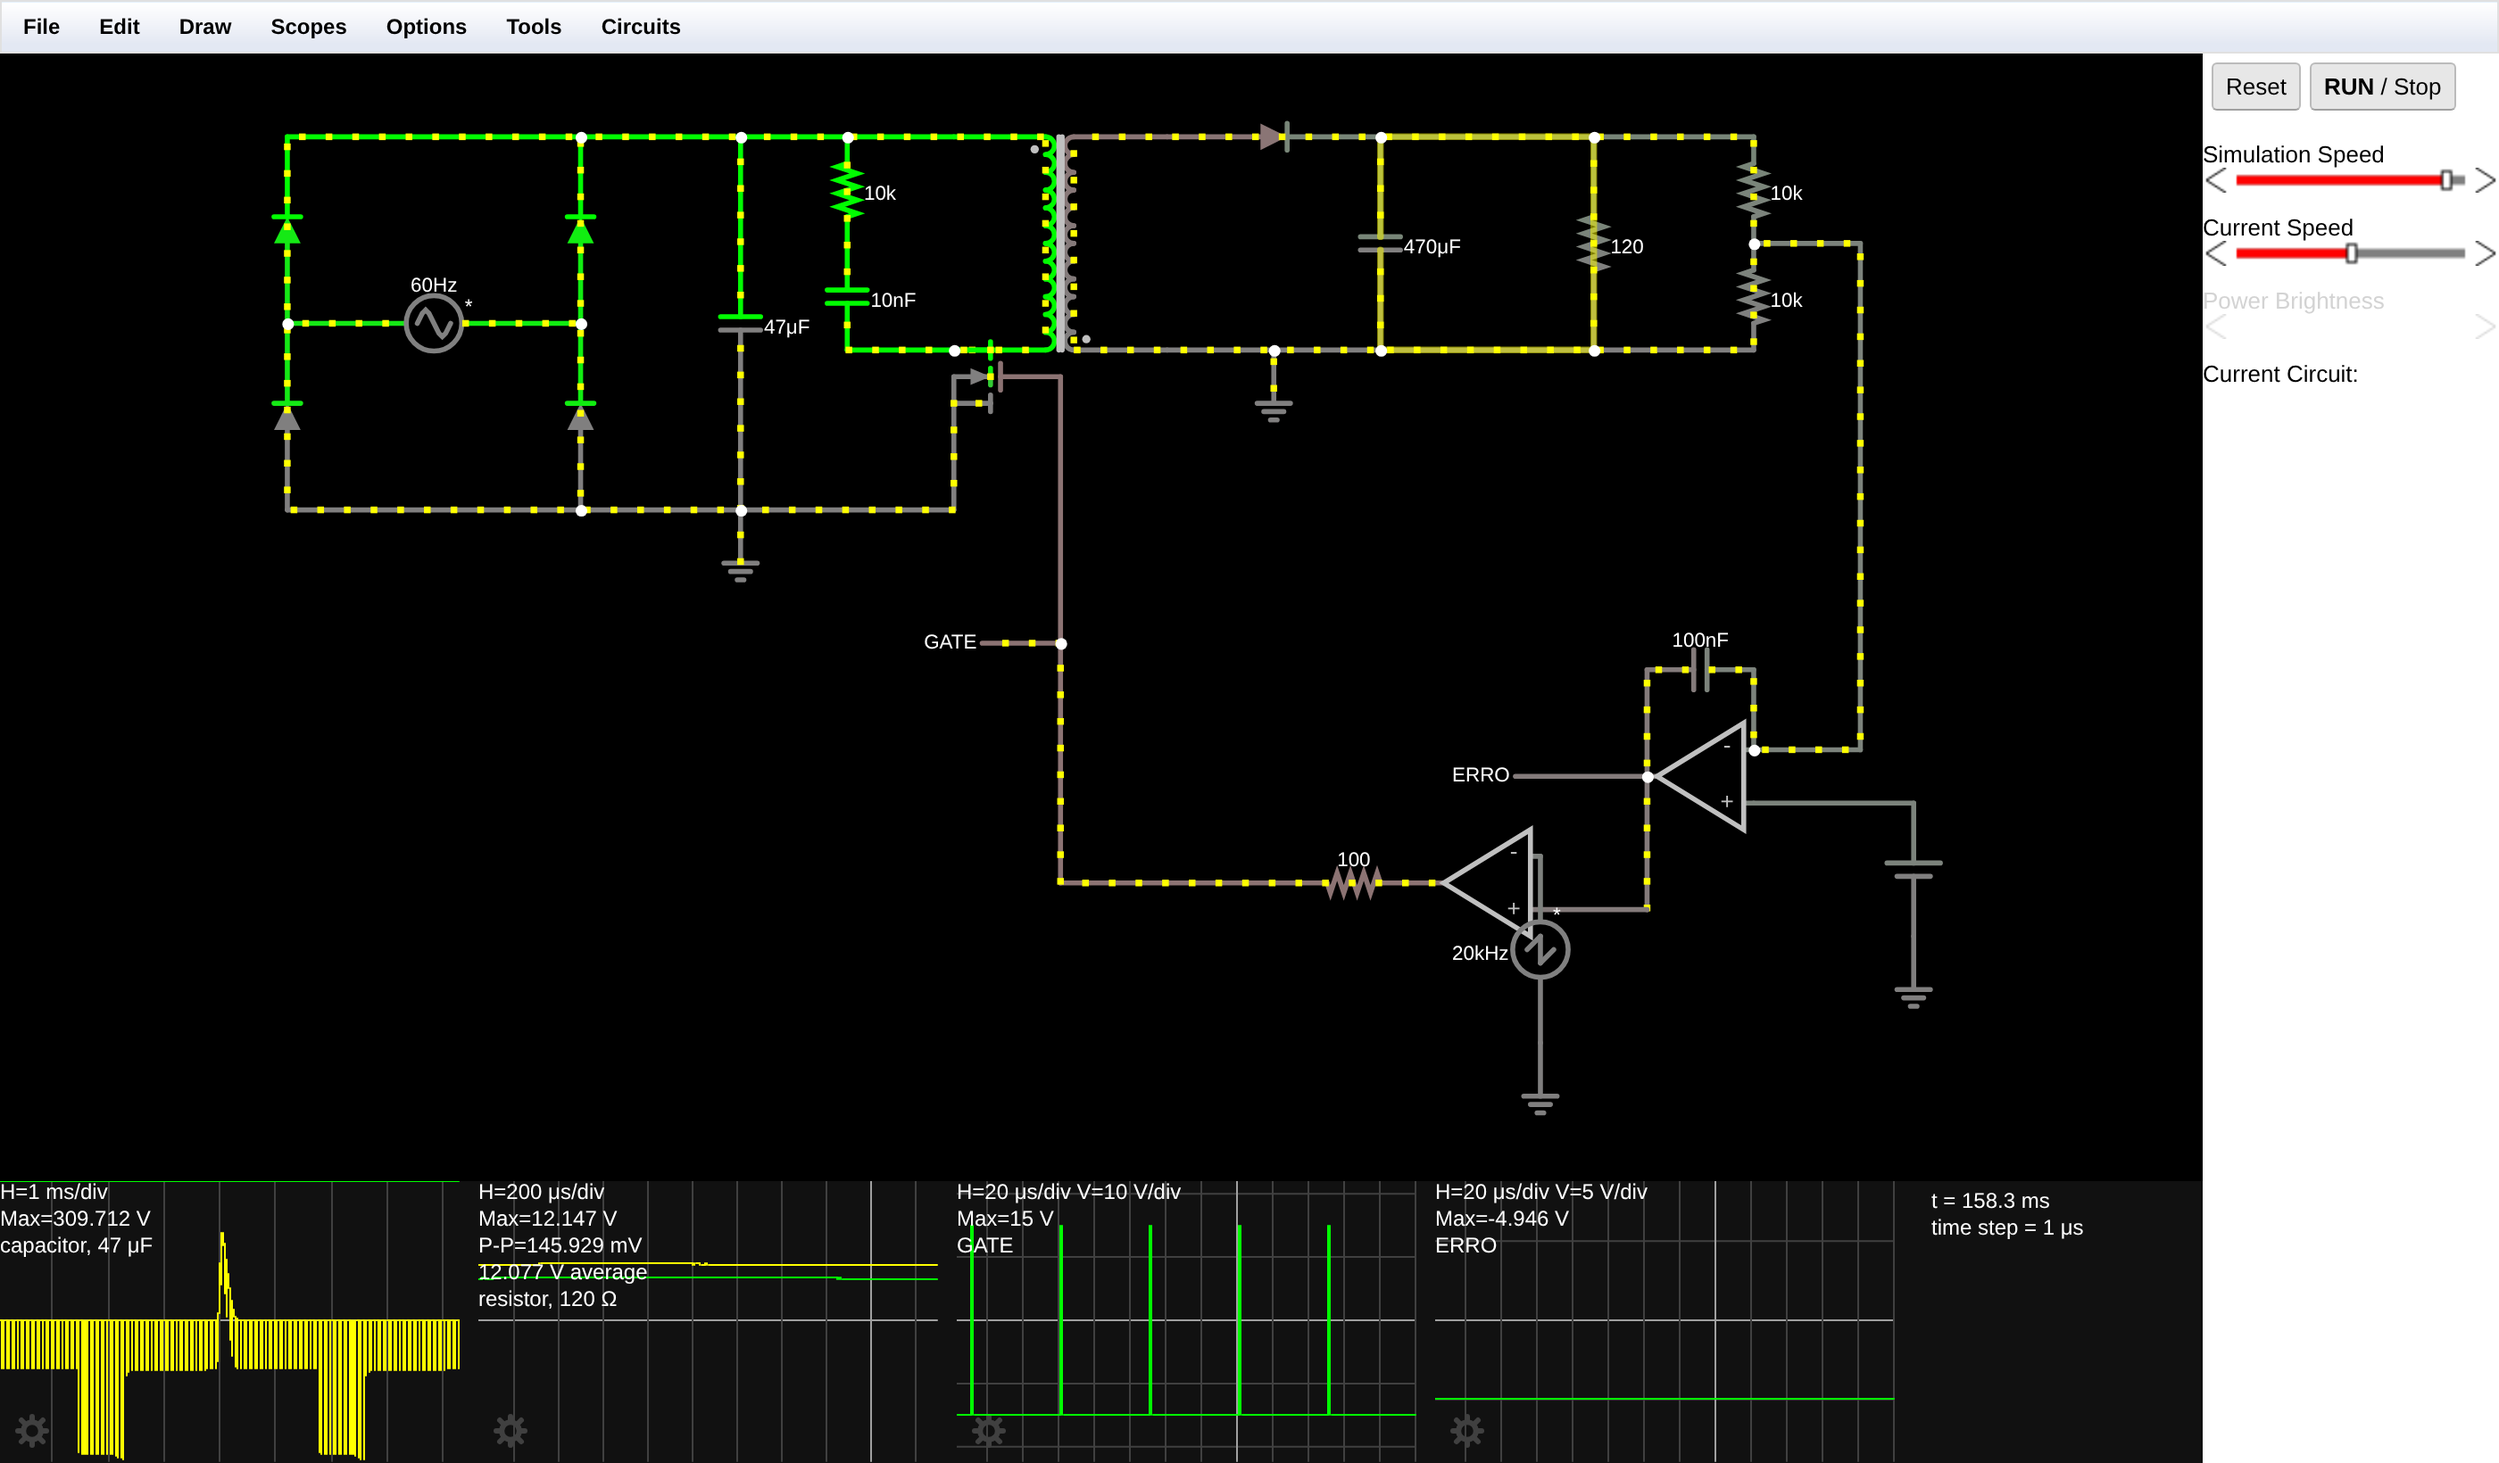
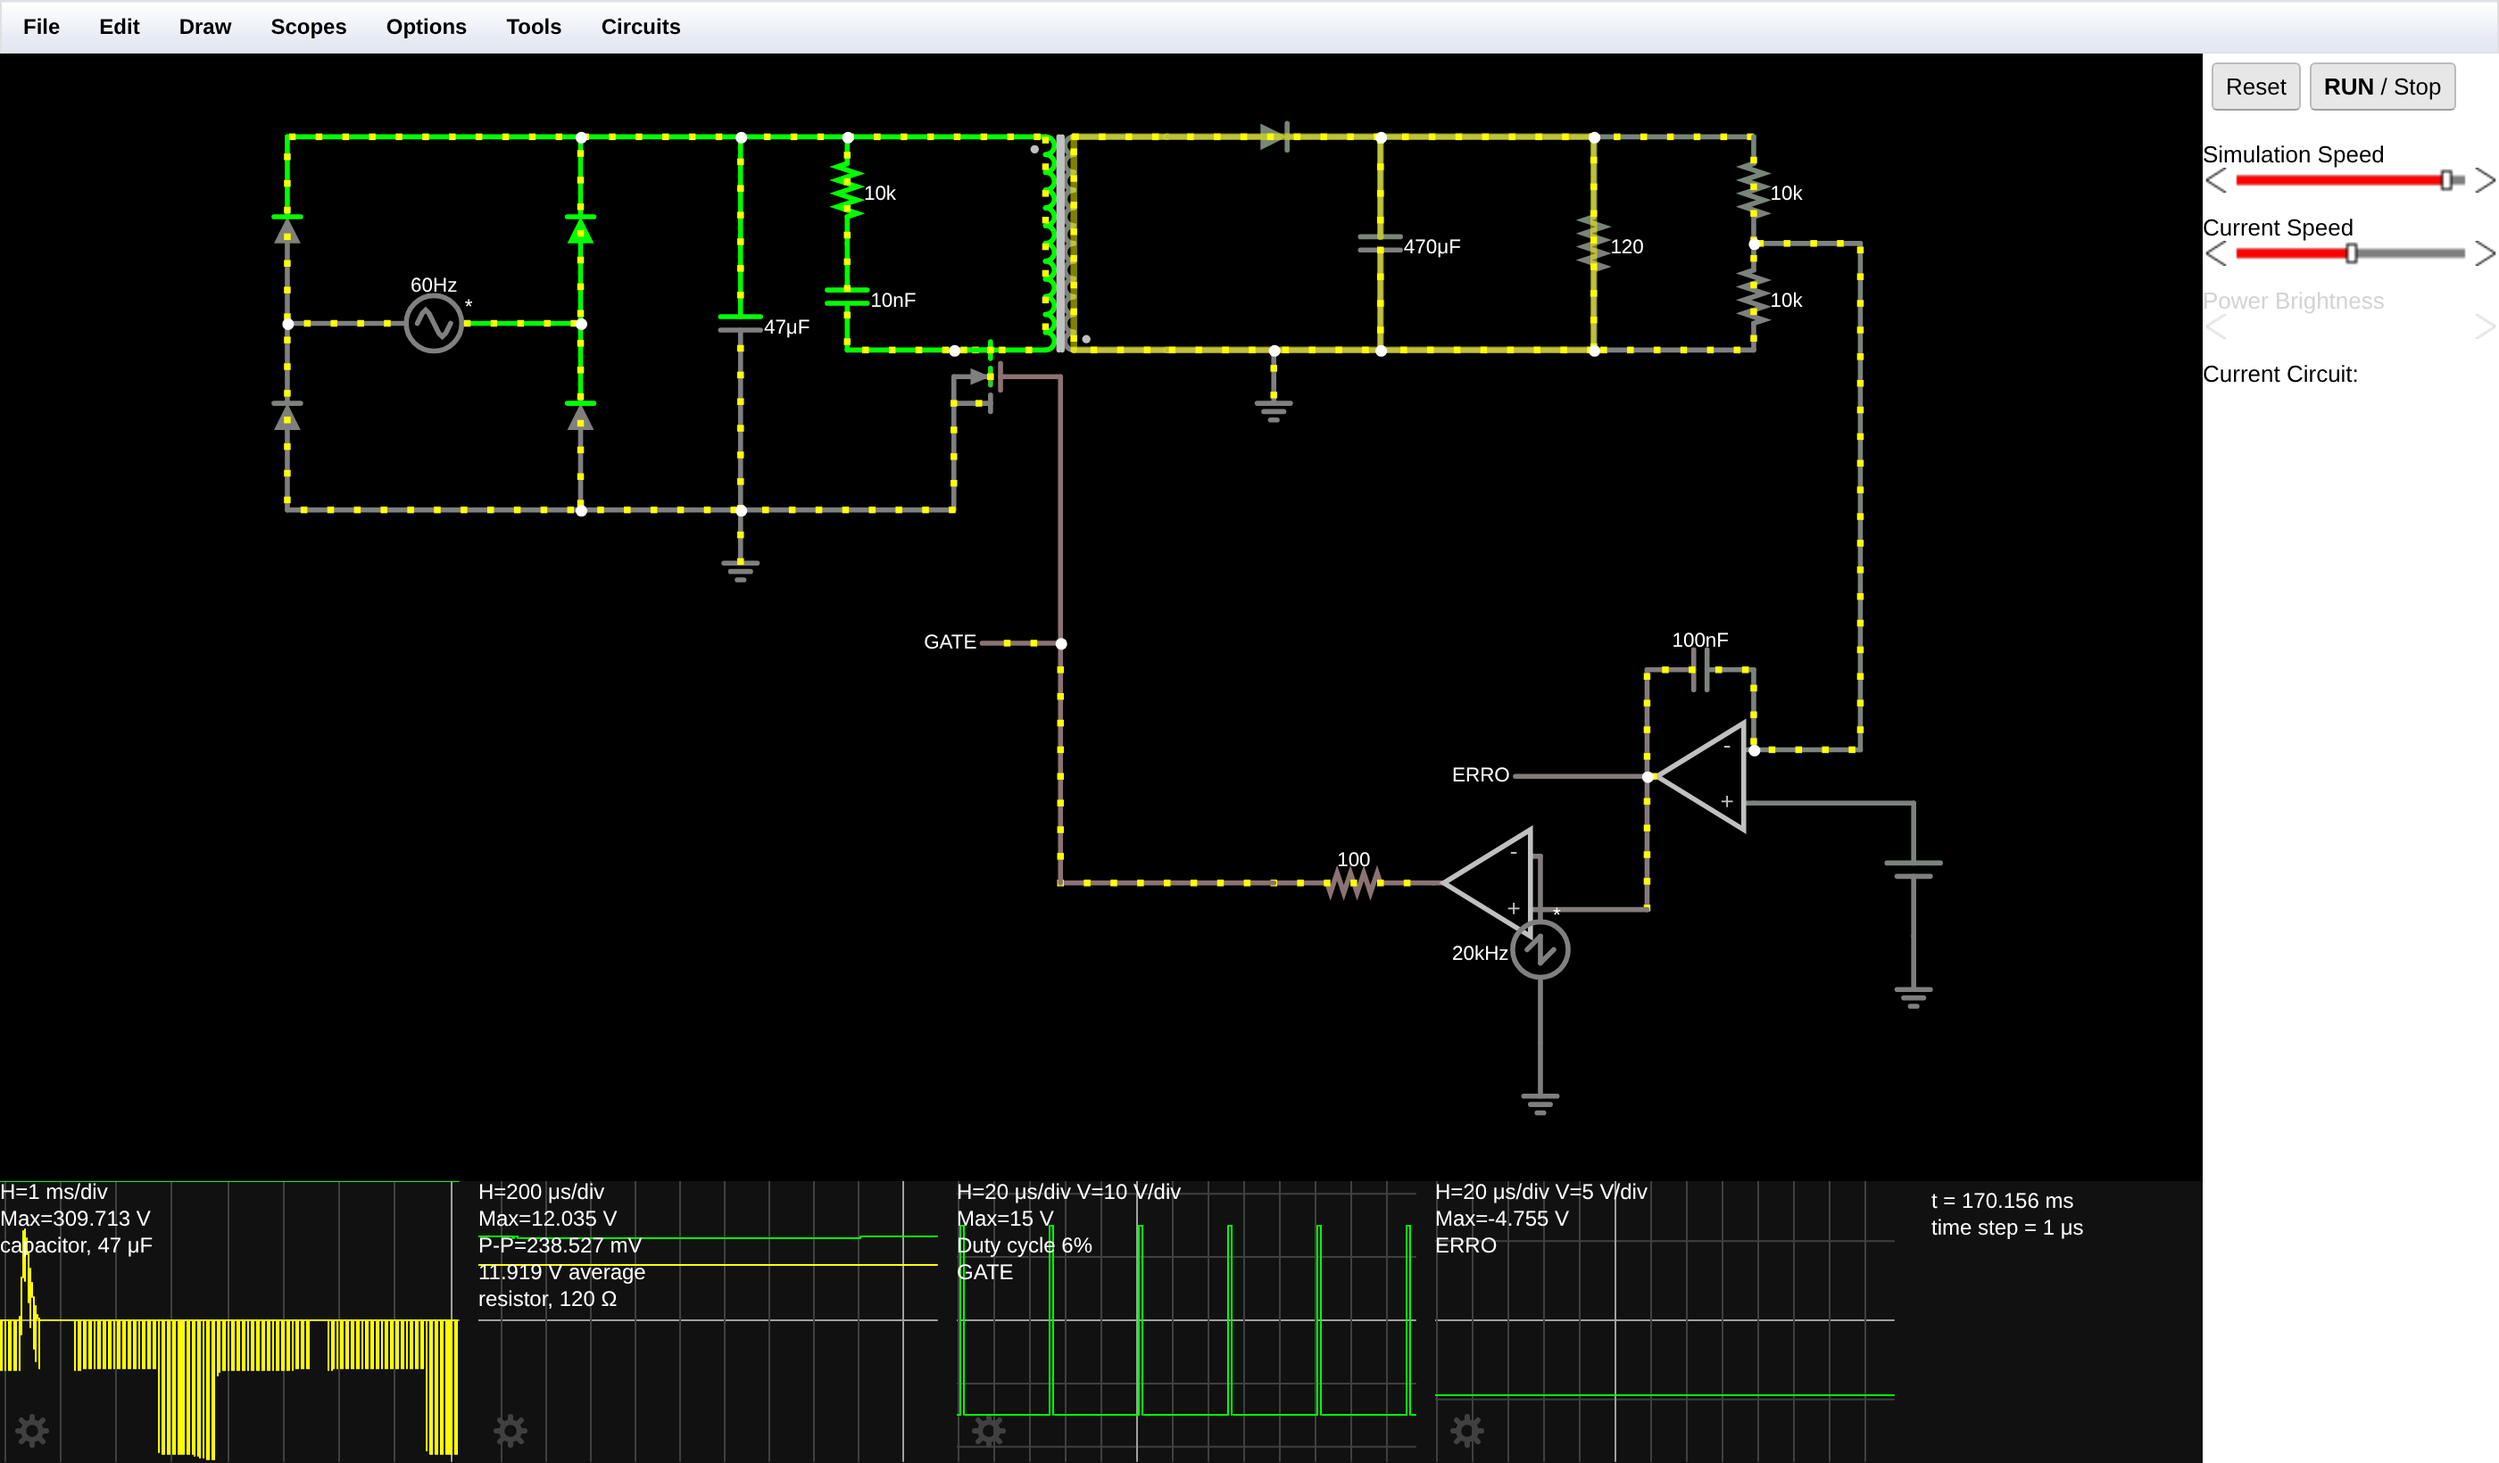
Atualiza relatório com as medições em 127 V e 220 V
Regenera as capturas E1 e E2 com o MOSFET nos valores de fábrica, que é o
circuito efetivamente entregue, e substitui no texto os números que ainda
vinham da montagem anterior.

Medições: barramento de 178,665 V e saída de 11,990 V na rede de 127 V;
309,661 V e 11,962 V na rede de 220 V, com a razão cíclica caindo de 16 %
para 10 %. A regulação de linha ficou em -0,23 % para uma variação de +73 %
na tensão da rede.

Acrescenta a variante sem a rede de compensação, necessária para que a seção
sobre o capacitor de compensação cite valores medidos neste mesmo circuito
em vez de reaproveitar os da montagem com MOSFET de potência.

Claude-Session: https://claude.ai/code/session_01PLwXzCKm9zTWme2NoW3eNF

diff --git a/fonte-falstad/relatorio.html b/fonte-falstad/relatorio.html
@@ -191,26 +191,26 @@ referência de 6 V, rampa de 20 kHz e comparador PWM). Osciloscópios: barrament
 <h2>6. Procedimento experimental e medições</h2>
 
 <h3>6.1 Experimento 1 — Operação em 127 V AC</h3>
-<p>Fonte AC com Max Voltage = 180 V, carga de 12 Ω. O barramento estabilizou em <b>178,656 V</b>, exatamente o
-previsto (180 V de pico menos as duas quedas de diodo). A saída estabilizou em <b>12,027 V</b>, com o sinal de erro
-parado em −3,685 V e razão cíclica de <b>16 %</b>.</p>
+<p>Fonte AC com Max Voltage = 180 V, carga de 12 Ω. O barramento estabilizou em <b>178,665 V</b>, exatamente o
+previsto (180 V de pico menos as duas quedas de diodo). A saída estabilizou em <b>11,990 V</b>, com o sinal de erro
+parado em −3,751 V e razão cíclica de <b>16 %</b>.</p>
 
 <h3>6.2 Experimento 2 — Teste bivolt automático (220 V AC)</h3>
 <figure><img src="shots_hd/E2_220V.png"></figure>
 <div class="cap"><b>Figura 2</b> — Mesma fonte com a entrada alterada para 311 V de pico (220 V<sub>RMS</sub>). O
-barramento subiu para <b>309,668 V</b>, mas a saída permaneceu em <b>11,901 V</b>: a malha estreitou os pulsos de
-16 % para <b>10 %</b> e o sinal de erro desceu de −3,685 V para −4,327 V. Compare a largura dos pulsos do
+barramento subiu para <b>309,661 V</b>, mas a saída permaneceu em <b>11,962 V</b>: a malha estreitou os pulsos de
+16 % para <b>10 %</b> e o sinal de erro desceu de −3,751 V para −4,308 V. Compare a largura dos pulsos do
 osciloscópio GATE com a da Figura 1.</div>
 
 <h3>6.3 Tabela de resultados (tabela do item 4 do roteiro)</h3>
 <table>
 <tr><th>Tensão da rede (RMS)</th><th>Tensão de pico no Falstad</th><th>Tensão no barramento DC</th><th>Largura de pulso (observação)</th><th>Sinal de erro</th><th>Tensão de saída medida</th></tr>
-<tr><td><b>127 V AC</b></td><td>180 V</td><td><b>178,656 V</b> <span style="color:#4a5a68">(previsto ~178 V)</span></td><td>Razão cíclica <b>16 %</b> — pulsos de ≈ 8 µs em 50 µs</td><td>−3,685 V</td><td><b>12,027 V</b> (ondulação 335 mV)</td></tr>
-<tr><td><b>220 V AC</b></td><td>311 V</td><td><b>309,668 V</b> <span style="color:#4a5a68">(previsto ~309 V)</span></td><td>Razão cíclica <b>10 %</b> — pulsos <b>estreitaram</b> para ≈ 5 µs</td><td>−4,327 V</td><td><b>11,901 V</b> (ondulação 333 mV)</td></tr>
+<tr><td><b>127 V AC</b></td><td>180 V</td><td><b>178,665 V</b> <span style="color:#4a5a68">(previsto ~178 V)</span></td><td>Razão cíclica <b>16 %</b> — pulsos de ≈ 8 µs em 50 µs</td><td>−3,751 V</td><td><b>11,990 V</b> (ondulação 633 mV)</td></tr>
+<tr><td><b>220 V AC</b></td><td>311 V</td><td><b>309,661 V</b> <span style="color:#4a5a68">(previsto ~309 V)</span></td><td>Razão cíclica <b>10 %</b> — pulsos <b>estreitaram</b> para ≈ 5 µs</td><td>−4,308 V</td><td><b>11,962 V</b> (ondulação 370 mV)</td></tr>
 </table>
 <p>Verificando a previsão teórica da seção 2 (produto V<sub>barramento</sub>·D constante): em 127 V temos
 172 × 0,16 = 27,5 e em 220 V temos 300 × 0,10 = 30,0 — uma diferença de apenas 9 %, consistente com o pequeno
-aumento de perdas de comutação na tensão mais alta. A fonte entrega <b>1,002 A / 12,05 W</b> em ambas as redes.</p>
+aumento de perdas de comutação na tensão mais alta. A fonte entrega <b>999 mA / 11,98 W</b> em ambas as redes.</p>
 
 <h3>6.4 Experimento 3 — Teste de variação de carga</h3>
 <figure><img src="shots_hd/E3_carga_leve.png"></figure>
@@ -223,7 +223,7 @@ corresponde à razão cíclica nula.</div>
 <tr><td>220 V · carga nominal (12 Ω)</td><td>992 mA</td><td>11,901 V</td><td>333 mV</td><td>−4,327 V</td><td>10 %</td></tr>
 <tr><td>220 V · carga leve (120 Ω)</td><td>101 mA</td><td>12,077 V</td><td>146 mV</td><td>−4,946 V</td><td>&lt; 1 % (pulso saltado)</td></tr>
 <tr><td colspan="6"><b>Regulação de carga: +1,48 %</b> para uma variação de 10:1 na corrente de saída.
-<b>Regulação de linha: −1,05 %</b> para uma variação de +73 % na tensão da rede.</td></tr>
+<b>Regulação de linha: −0,23 %</b> para uma variação de +73 % na tensão da rede.</td></tr>
 </table>
 
 <h3>6.5 Experimento 4 — A montagem literal do roteiro, para comparação</h3>
@@ -252,13 +252,13 @@ entregue mantém o componente padrão.</p>
 <h2>7. Questões para análise e discussão</h2>
 
 <div class="q"><b>Questão (Experimento 2).</b> O que aconteceu com a largura dos pulsos (<i>Duty Cycle</i>) aplicados ao MOSFET quando a tensão da rede subiu para 220 V? A tensão de saída permaneceu regulada em 12 V?</div>
-<p><b>Os pulsos estreitaram — de 16 % para 10 % — e sim, a saída permaneceu regulada:</b> passou de 12,027 V para
-11,901 V, uma variação de apenas <b>−1,05 %</b> para um aumento de 73 % na tensão da rede.</p>
+<p><b>Os pulsos estreitaram — de 16 % para 10 % — e sim, a saída permaneceu regulada:</b> passou de 11,990 V para
+11,962 V, uma variação de apenas <b>−0,23 %</b> para um aumento de 73 % na tensão da rede.</p>
 <p>O mecanismo é o seguinte. Com o barramento em 309 V em vez de 178 V, a corrente no primário cresce
 <b>1,7 vez mais rápido</b> durante a condução (di/dt = V<sub>barramento</sub>/L<sub>p</sub>). Se a largura do pulso
 fosse mantida, a corrente de pico — e portanto a energia armazenada por ciclo, ½·L·I² — aumentaria, e a saída
 dispararia. A malha impede isso: a tensão de saída tende a subir, o divisor entrega mais de 6 V à entrada
-inversora, o amplificador de erro baixa sua saída (de −3,685 V para −4,327 V) e o comparador, encontrando a rampa
+inversora, o amplificador de erro baixa sua saída (de −3,751 V para −4,308 V) e o comparador, encontrando a rampa
 mais cedo, <b>encurta o pulso</b> na medida exata para manter constante a corrente de pico.</p>
 <p>Essa é precisamente a definição de <b>fonte bivolt automática</b>: não há chave seletora nem relé; a regulação
 por largura de pulso absorve sozinha a variação da rede. A mesma malha explica por que fontes chaveadas aceitam
@@ -285,7 +285,7 @@ de 470 µF se descarrega muito mais lentamente entre os pulsos.</p>
 <div class="q"><b>Discussão complementar.</b> Por que a tensão medida no barramento DC é ligeiramente menor que a tensão de pico configurada na fonte AC?</div>
 <p>Porque a corrente atravessa sempre <b>dois diodos em série</b> da ponte (um no ramo positivo e outro no ramo de
 retorno). Com queda direta de ≈ 0,7 V cada, o barramento fica em V<sub>pico</sub> − 1,4 V. As medições confirmam o
-modelo com precisão notável: <b>178,656 V</b> medidos contra 178,6 V previstos na rede de 127 V, e <b>309,668 V</b>
+modelo com precisão notável: <b>178,665 V</b> medidos contra 178,6 V previstos na rede de 127 V, e <b>309,661 V</b>
 contra 309,6 V previstos na rede de 220 V — erro inferior a 0,1 V nos dois casos.</p>
 <p>Além disso, o capacitor de 47 µF não mantém a tensão perfeitamente constante: entre dois picos consecutivos da
 rede retificada (8,33 ms em 60 Hz) ele alimenta sozinho a fonte, e sua tensão decai. É a ondulação de 120 Hz bem
@@ -316,10 +316,10 @@ alterar a resistência.</p>
 
 <h2>9. Conclusão</h2>
 <p>A fonte chaveada flyback foi montada com os cinco estágios completos e opera de forma estável nas duas redes.
-As medições confirmam quantitativamente o comportamento previsto: barramento de <b>178,656 V</b> em 127 V e
-<b>309,668 V</b> em 220 V, ambos a menos de 0,1 V do modelo que desconta as duas quedas de diodo da ponte.</p>
+As medições confirmam quantitativamente o comportamento previsto: barramento de <b>178,665 V</b> em 127 V e
+<b>309,661 V</b> em 220 V, ambos a menos de 0,1 V do modelo que desconta as duas quedas de diodo da ponte.</p>
 <p>A operação <b>bivolt automática</b> foi comprovada: aumentando a rede em 73 %, a malha de realimentação estreitou
-os pulsos de 16 % para 10 % e a saída variou apenas <b>−1,05 %</b>. O teste de carga mostrou regulação de
+os pulsos de 16 % para 10 % e a saída variou apenas <b>−0,23 %</b>. O teste de carga mostrou regulação de
 <b>+1,48 %</b> para uma variação de 10:1 na corrente. Em ambos os casos o sinal de erro, monitorado em um
 osciloscópio próprio, moveu-se na direção correta dentro da janela da rampa — tornando visível o funcionamento da
 malha, que normalmente é a parte mais abstrata do circuito.</p>
